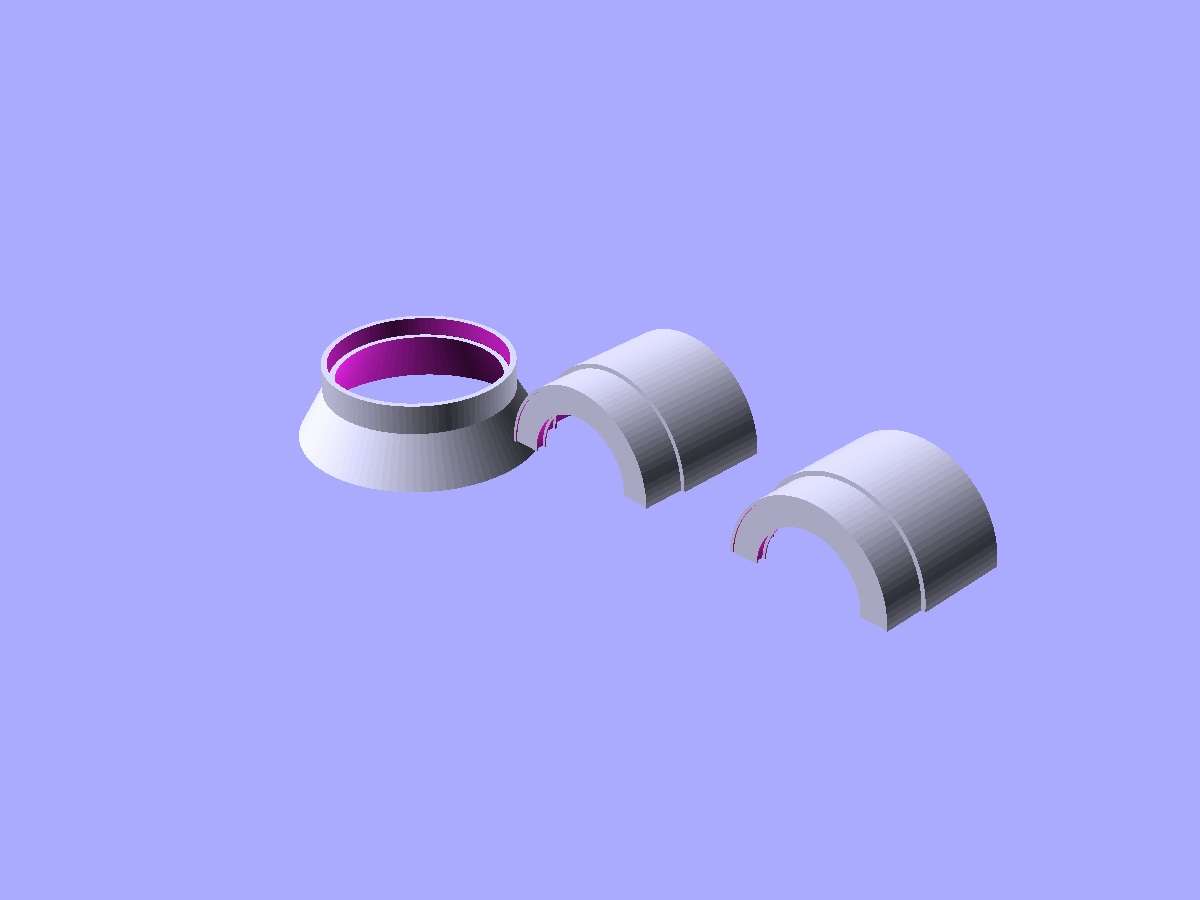
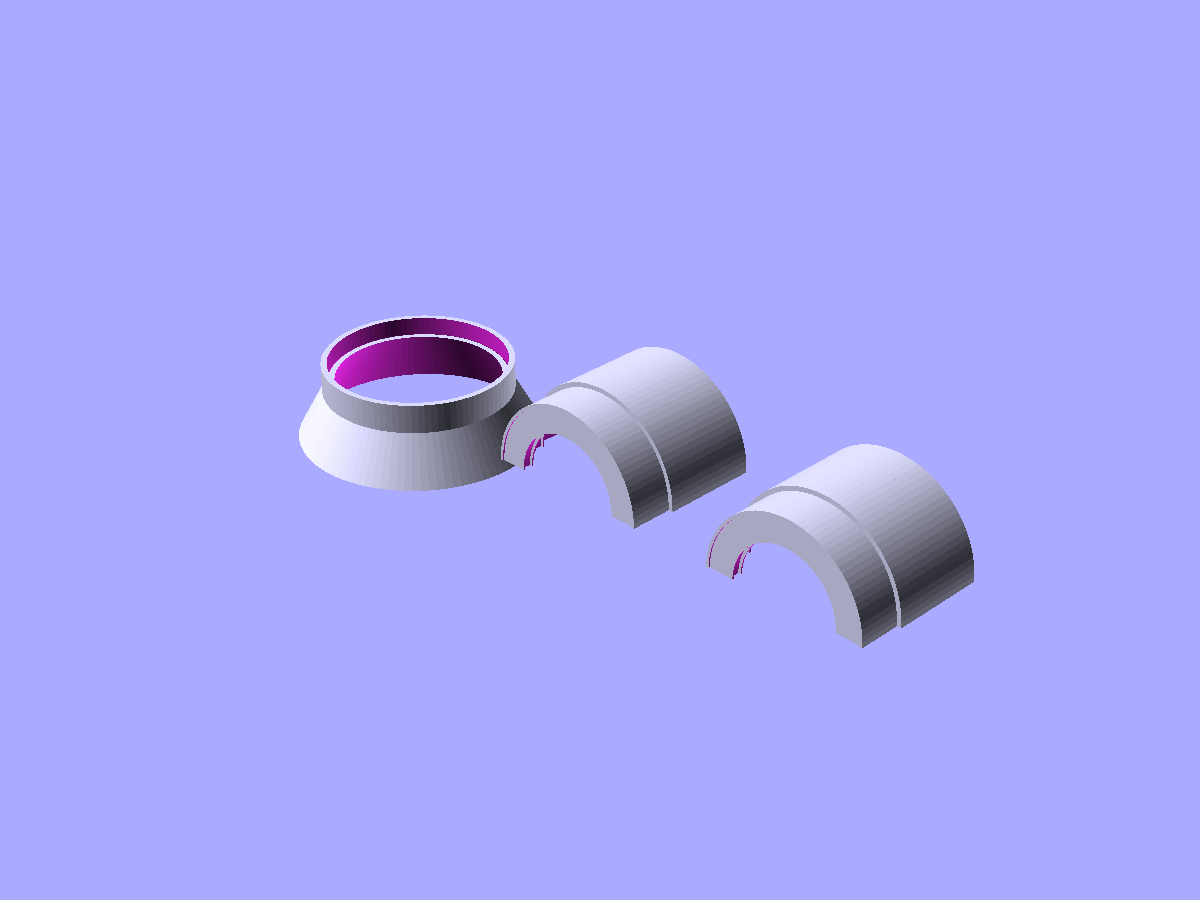
example/lens-housing: tidy the print-variant bed layout
Old layout picked X spread from a magic `upper_housing_od * 1.5` and
left the hood at Y=0 while the splayed housing halves centered around
Y≈8.8 (the housing's asymmetric Z extent, lower recess vs upper barrel
+ front fillet, isn't centered on Y=0 in its own frame). Result: the
hood sat ~18 mm from the first half and visibly offset off the
housing-half baseline.

Rework with bbox-driven layout:
- Uniform 25 mm gap between adjacent parts, computed from each part's
  X size via bbox().
- Hood Y-shifted onto the housing-half Y-center so all three parts
  share a baseline on the print bed.

Beauty shot regenerated.

Changed region(s): [[0.4008, 0.3422, 0.7708, 0.7156], [0.7092, 0.4667, 0.8325, 0.6533]]

diff --git a/examples/lens-housing.py b/examples/lens-housing.py
@@ -251,12 +251,23 @@ class M57Lens(Design):
 
     @variant(fn=48, default=True)
     def print(self):
-        spread = self.housing.upper_housing_od * 1.5
+        # Bed-ready layout: two splayed housing halves + the inverted hood,
+        # spaced with a uniform gap between adjacent parts and Y-aligned on
+        # a shared baseline.
+        half = half_housing_splay(self.housing)
+        flipped_hood = self.hood.flip("z")   # wide flare on the print bed
+        half_bb = bbox(half)
+        hood_bb = bbox(flipped_hood)
+        gap = 25
+        half_w = half_bb.size[0]
+        hood_w = hood_bb.size[0]
+        y_align = half_bb.center[1] - hood_bb.center[1]
         return union(
-            half_housing_splay(self.housing),
-            half_housing_splay(self.housing).right(spread),
-            # Flip the hood to put its wide flare on the print bed.
-            self.hood.flip("z").left(spread),
+            half,
+            half.right(half_w + gap),
+            flipped_hood.translate(
+                [-(hood_w + half_w) / 2 - gap, y_align, 0]
+            ),
         )
 
     @variant(fn=48)
